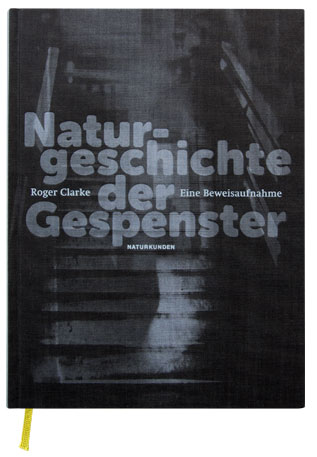
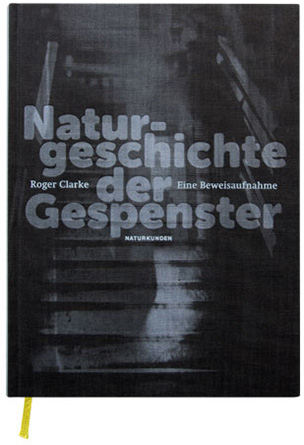
new version

diff --git a/ueb.md b/ueb.md
@@ -4,21 +4,18 @@ category: ueb
 in_menu: 5
 title: ueb
 cv:
-  - date: seit 03/13
+  - date: 03/13-03/15
     details: >
-      Studium Design Master [Fachhochschule Potsdam](http://design.fh-potsdam.de)
+      Master of Arts, Design, [FH Potsdam](http://design.fh-potsdam.de)
   - date: 10/13–09/14
     details: >
       [Deutschland-Stipendiatin](http://www.deutschlandstipendium.de)
+  - date: 09/05-09/12
+    details: >
+      Bachelor of Arts, Kommunikationsdesign, [FH Potsdam](http://design.fh-potsdam.de)      
   - date: 10/08–03/09
     details: >
       Praktikum bei [Lichtrausch](http://www.lichtrausch.com) in Berlin  
-  - date: 09/05-09/12
-    details: >
-      Studium Kommunikationsdesign, Bachelor of Arts, [FH Potsdam](http://design.fh-potsdam.de)
-  - date: 02/05–07/05
-    details: >
-      Studium an der [Freien Kunstschule P.Art](http://www.part-stuttgart.de/) in Stuttgart
   - date: 06/04
     details: >
       Allgemeine Hochschulreife am Kreuzgymnasium Dresden
@@ -26,9 +23,10 @@ cv:
 
 *****
 
-Pauline Altmann lebt und arbeitet in Berlin als freiberuflich tätige Buchgestalterin, Typografin und Grafikdesignerin.
-Noch während ihres Studiums an der Fachhochschule Potsdam erschien das von ihr gestaltete Buch »Tintentanz« im Verlag [Hermann  
-Schmidt Mainz](http://www.typografie.de/web/). Seit 2013 gestaltet sie mit Judith Schalansky die bei [Matthes & Seitz Berlin](http://www.matthes-seitz-berlin.de) erscheinende Buchreihe »Naturkunden«.
+Pauline Altmann lebt in Berlin und arbeitet freiberuflich als Buchgestalterin, Typografin  
+und Grafikdesignerin. Während ihres Studiums an der FH Potsdam erschien das von  
+ihr gestaltete Buch »Tintentanz« im Verlag [Hermann Schmidt Mainz](http://www.typografie.de/web/). Seit 2013 gestaltet  
+sie mit Judith Schalansky die bei [Matthes & Seitz Berlin](http://www.matthes-seitz-berlin.de) erscheinende Buchreihe »Naturkunden«. Seit 2016 gestaltet sie die Publikationen und Werbedrucksachen des [Deutschen Literaturarchivs Marbach](http://www.dla-marbach.de). 
 
 *****
 
@@ -44,7 +42,8 @@ Publikation:  [»Tintentanz«](http://www.tintentanz.de/) mit Hans-Jürgen Willu
 
 *****
 
-Preise:  »Schönstes deutsches Buch 2014« von der Stiftung Buchkunst für »Insektopädie«
+Preise:  »Schönstes deutsches Buch 2014« von der Stiftung Buchkunst für »Insektopädie«, 
+»Schönstes deutsches Buch 2015« von der Stiftung Buchkunst für »Wahre Monster
 
 *****
 

diff --git a/_posts/2015-06-15-typo-gespenster.md b/_posts/2015-06-15-typo-gespenster.md
@@ -10,10 +10,10 @@ pages:
       - name: gespenster_01_01.jpg
         position:
           x: -5
-          y: 3
+          y: 10
       - name: gespenster_01_02.jpg
         position:
-          x: 315
+          x: 313
           y: 125
       - name: gespenster_01_03.jpg
         position:
